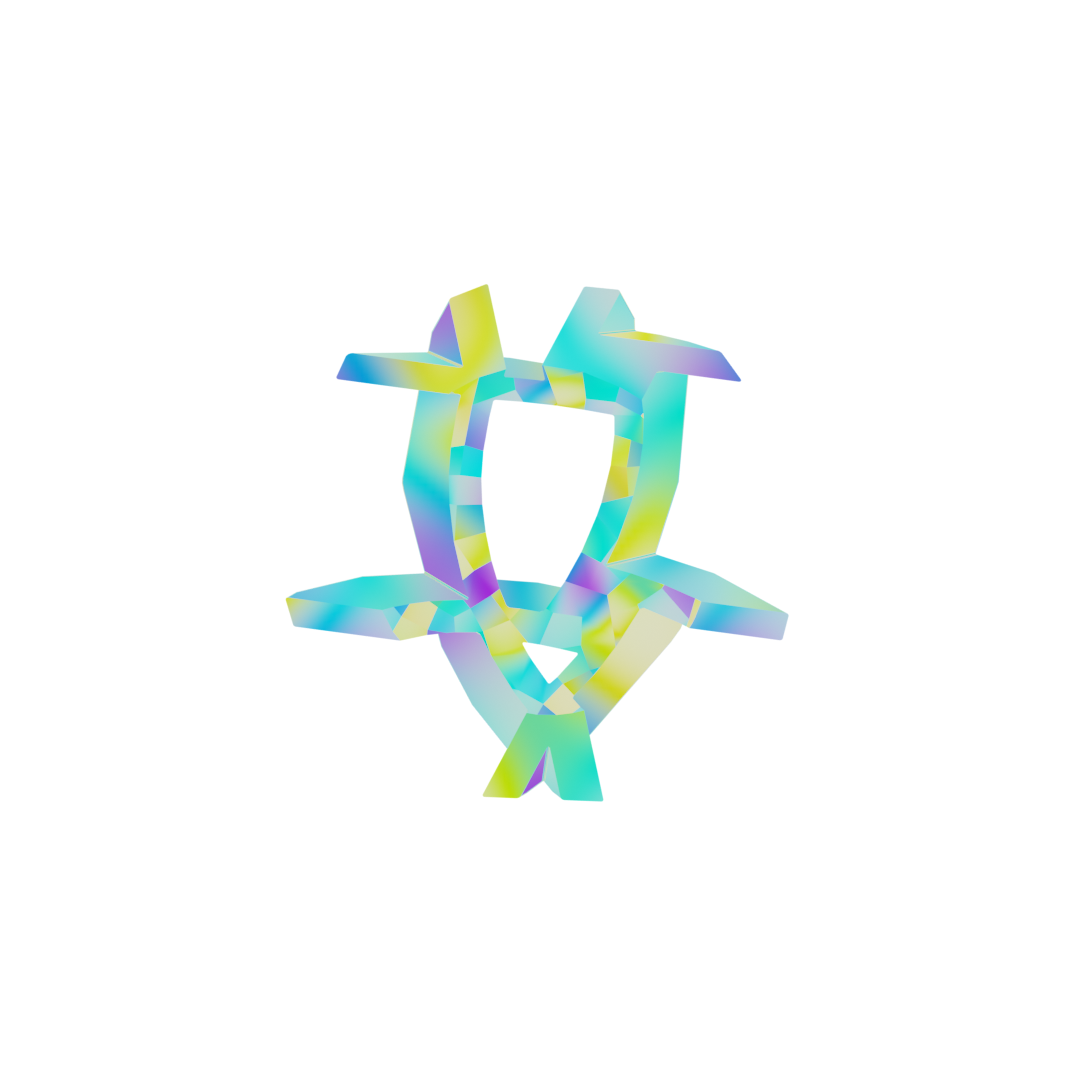
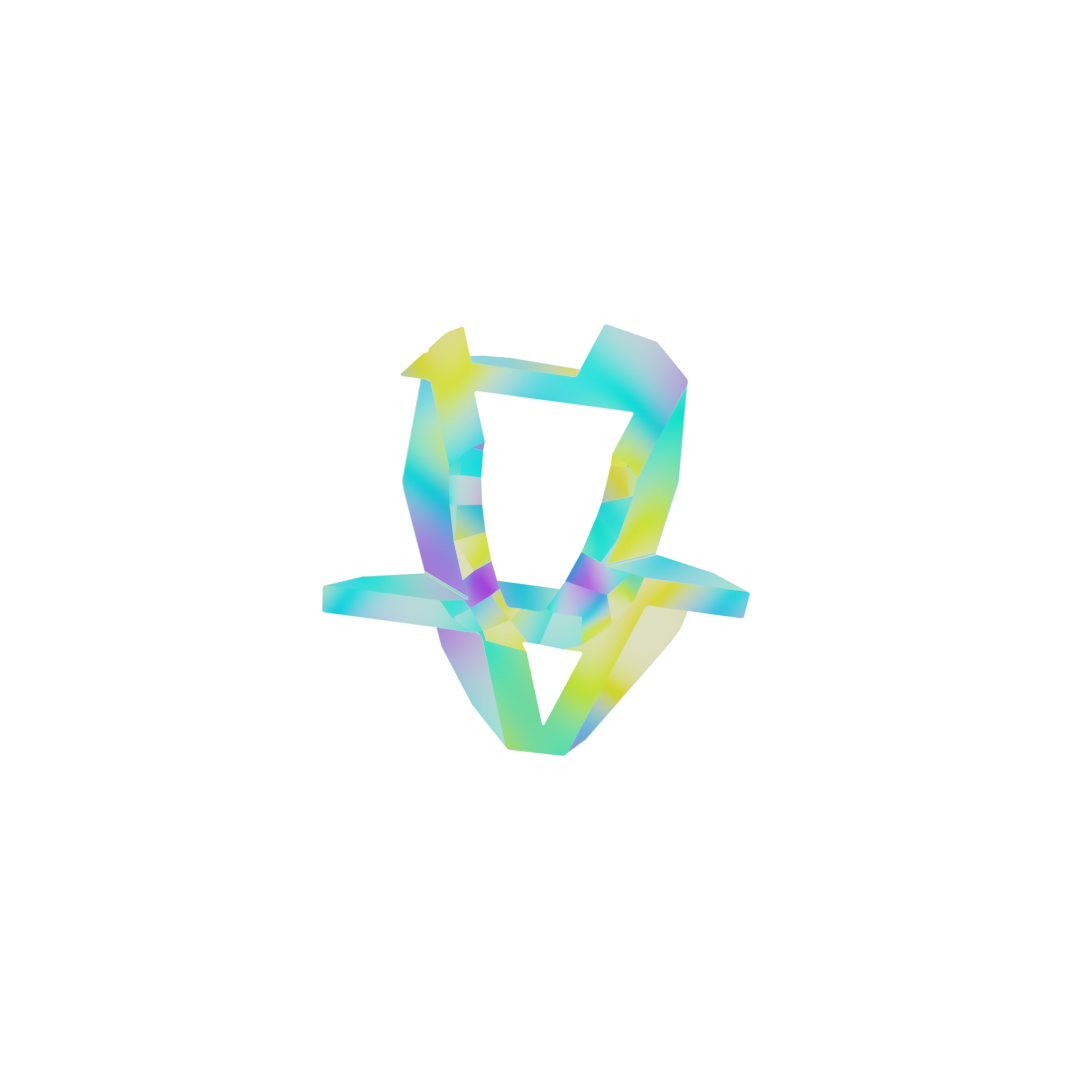
more icoapioform.html

diff --git a/nginx-routing/static/slice-parallax/icosapioform.html b/nginx-routing/static/slice-parallax/icosapioform.html
@@ -51,11 +51,14 @@ body {
     height: 100vh;
 }
 
-#parallax-0 { --z: -4; }
-#parallax-1 { --z: -3; }
-#parallax-2 { --z: -2; }
-#parallax-3 { --z: -1; }
-#parallax-4 { --z: 0; }
+#parallax-0 { --z: -7; }
+#parallax-1 { --z: -6; }
+#parallax-2 { --z: -5; }
+#parallax-3 { --z: -4; }
+#parallax-4 { --z: -3; }
+#parallax-5 { --z: -2; }
+#parallax-6 { --z: -1; }
+#parallax-7 { --z: 0; }
 
         </style>
 
@@ -68,6 +71,9 @@ body {
             <div class="parallaxer" id="parallax-2"><img src="images-icosapioform/frame-2.png" /></div>
             <div class="parallaxer" id="parallax-3"><img src="images-icosapioform/frame-3.png" /></div>
             <div class="parallaxer" id="parallax-4"><img src="images-icosapioform/frame-4.png" /></div>
+            <div class="parallaxer" id="parallax-5"><img src="images-icosapioform/frame-5.png" /></div>
+            <div class="parallaxer" id="parallax-6"><img src="images-icosapioform/frame-6.png" /></div>
+            <div class="parallaxer" id="parallax-7"><img src="images-icosapioform/frame-7.png" /></div>
         </div>
 
         <label for="perspective-amount"> Distance: </label>
